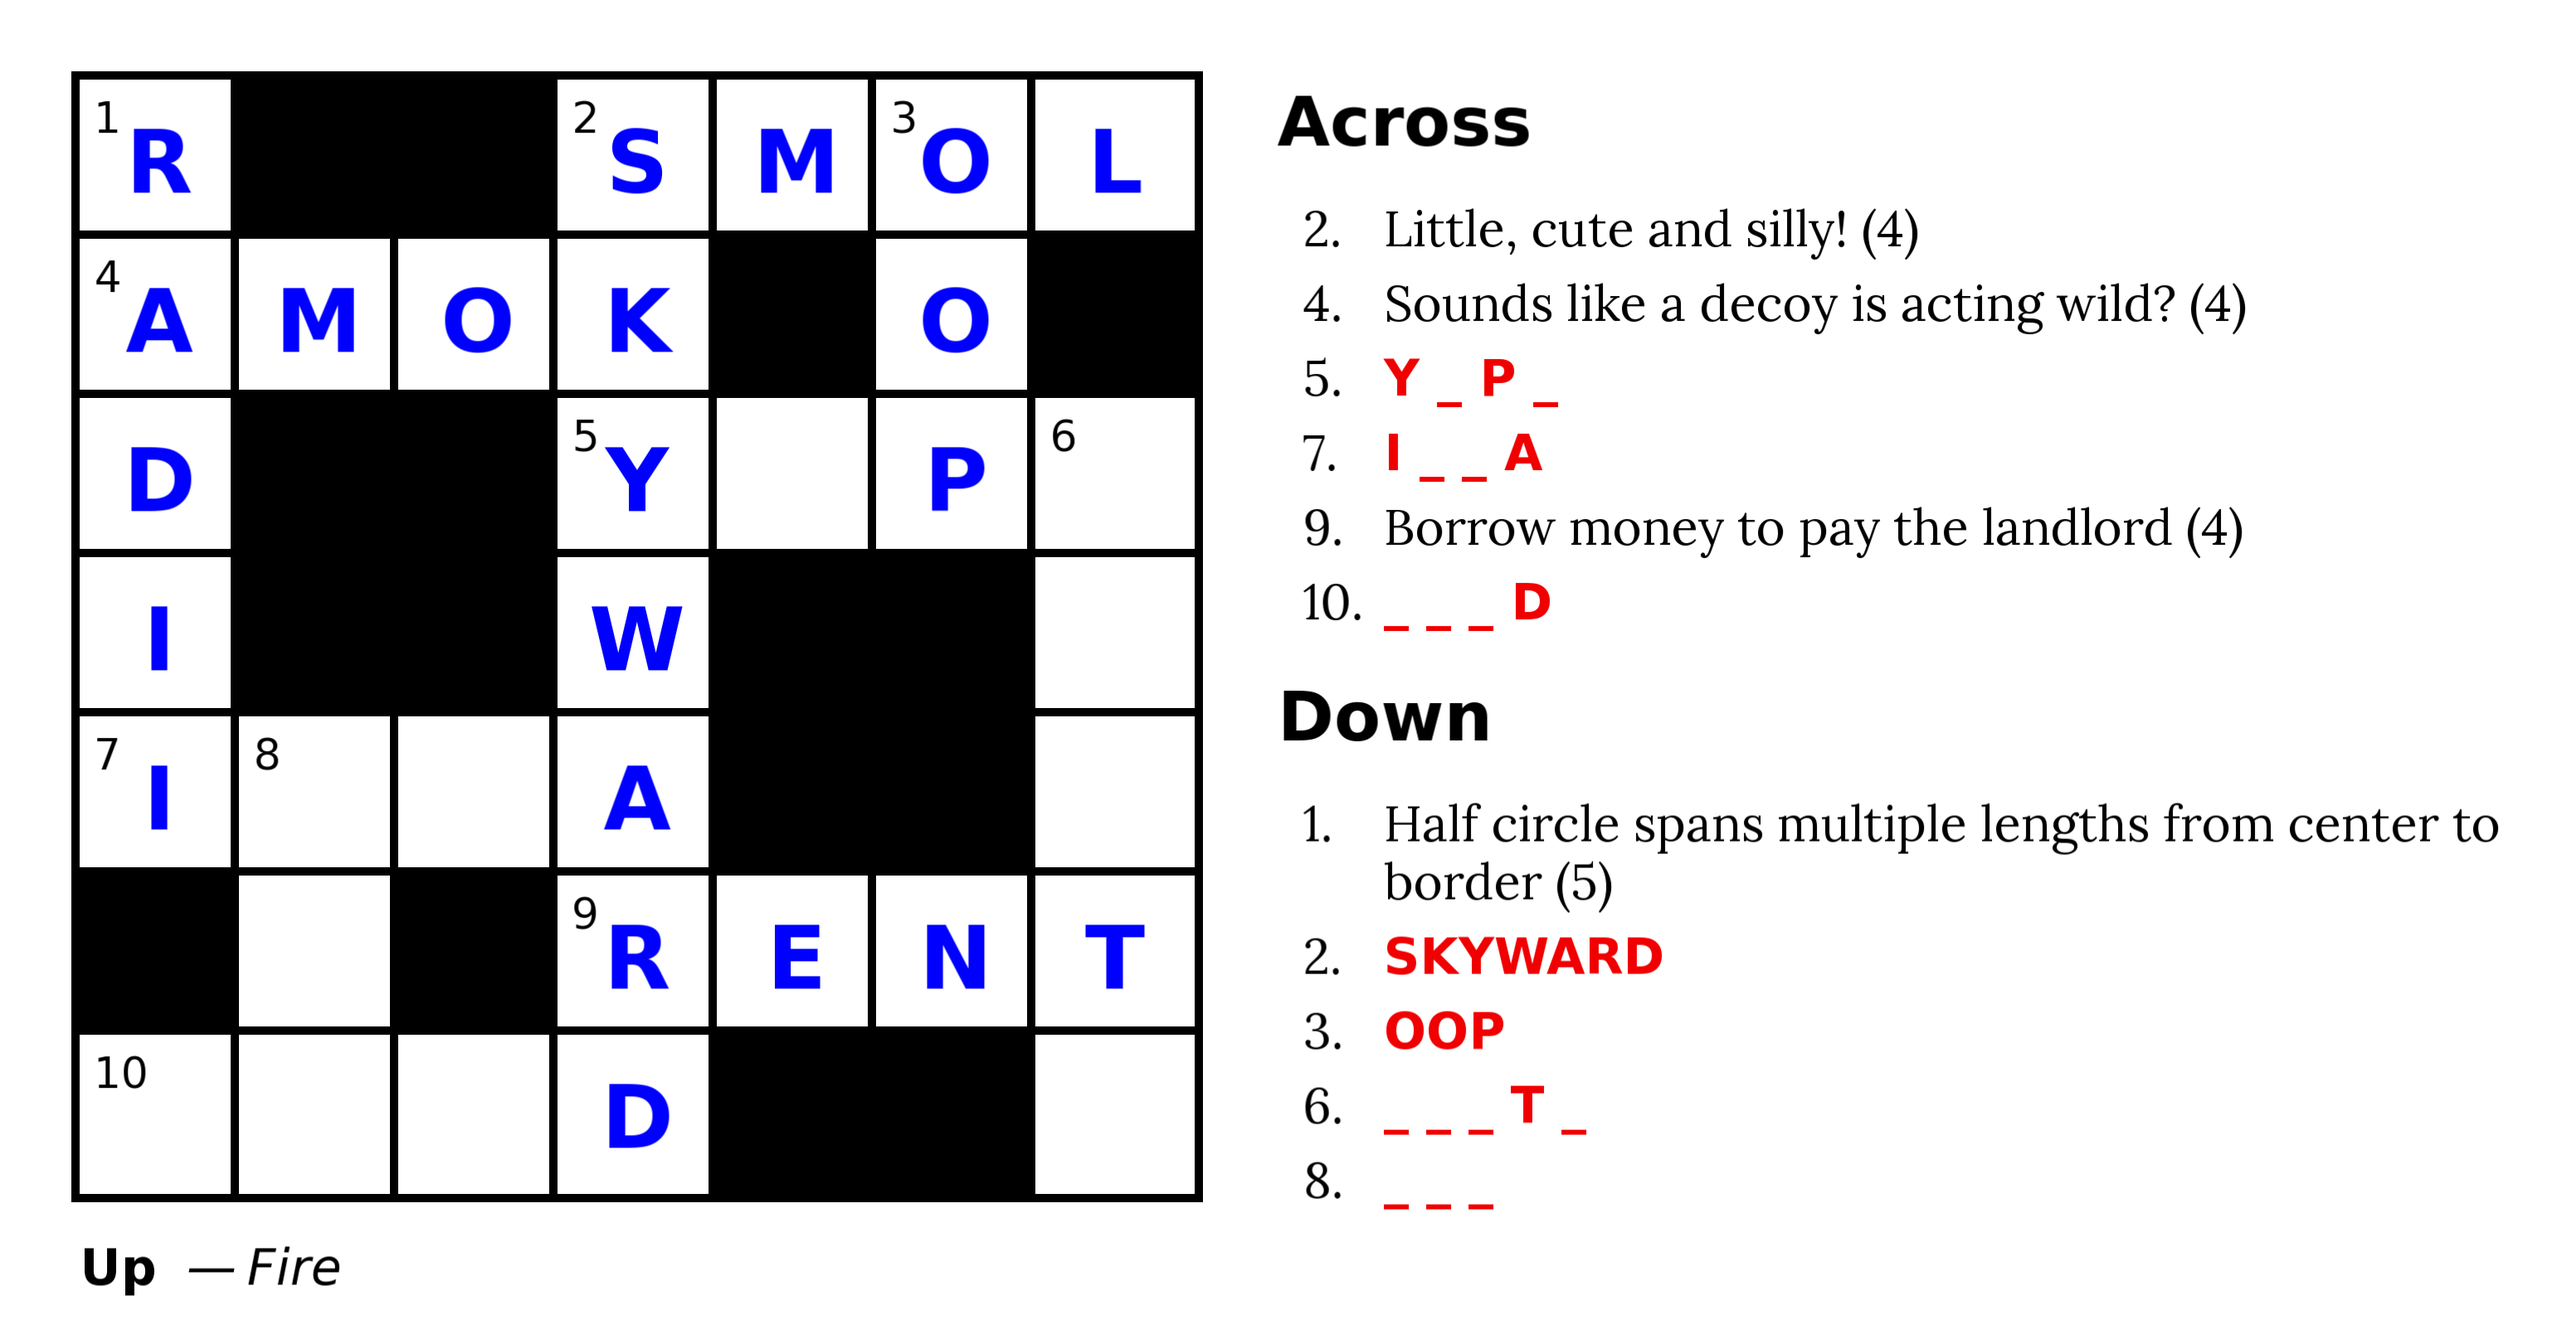
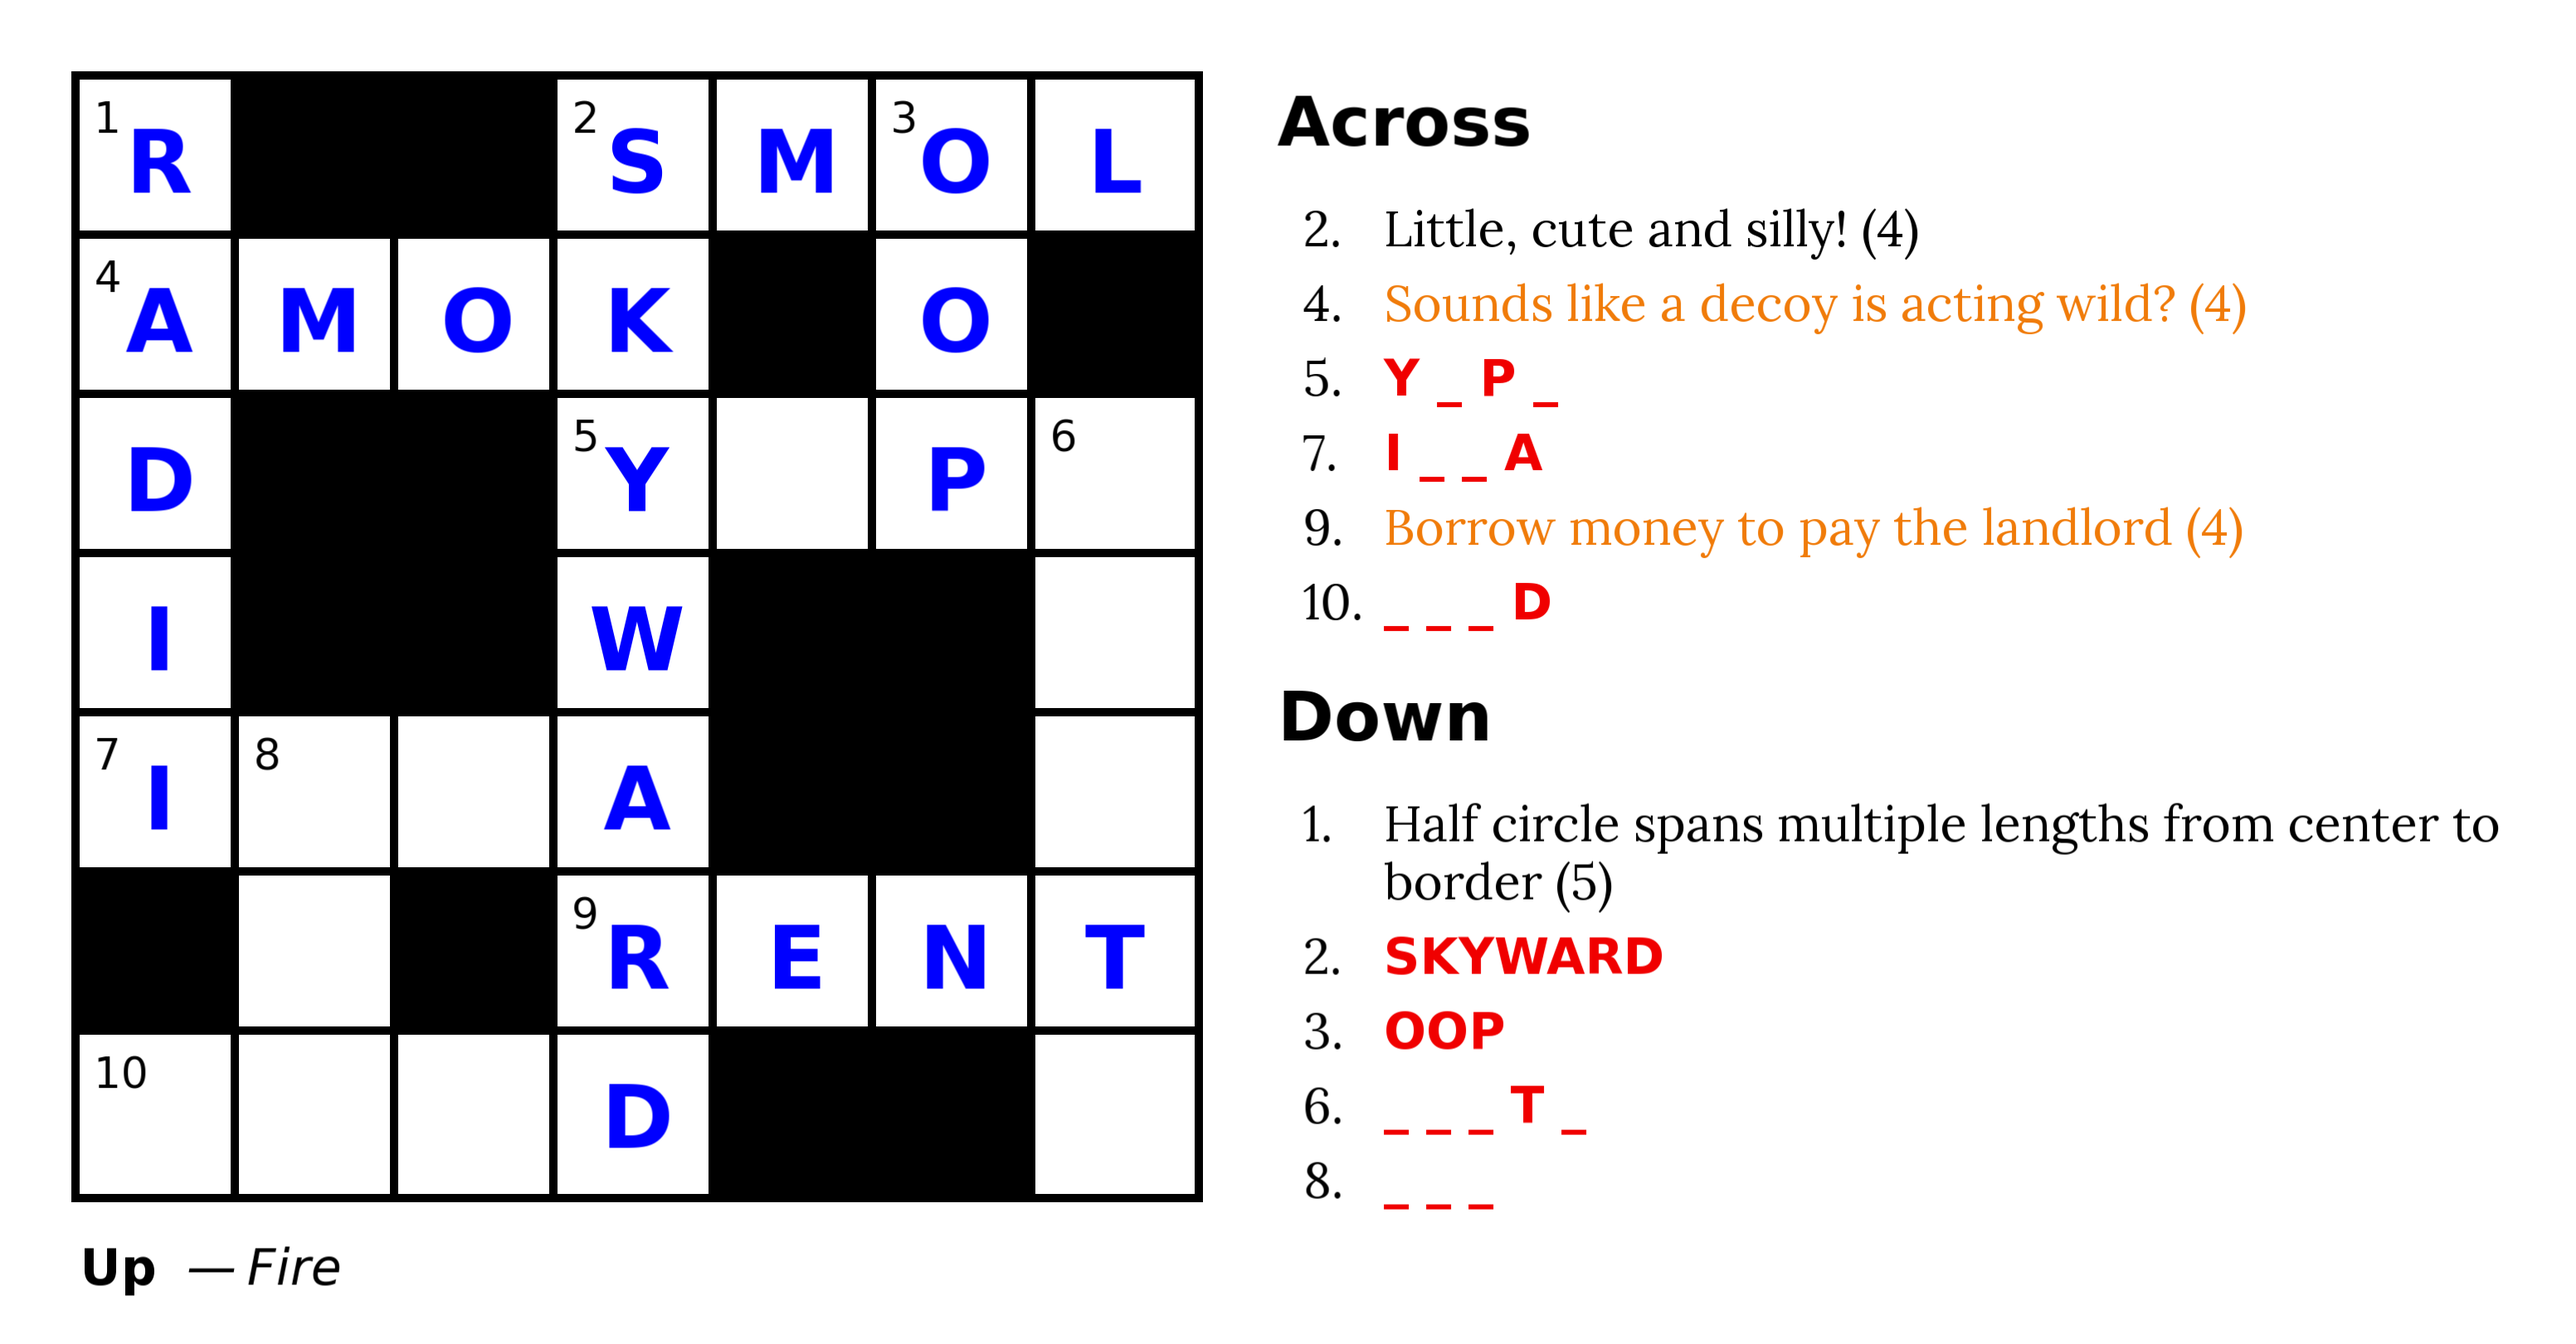
Added @Tentative feature.

Changed region(s): [[0.5311, 0.3701, 0.8747, 0.401], [0.5311, 0.2159, 0.8747, 0.2468]]

diff --git a/src/main.rs b/src/main.rs
@@ -15,6 +15,7 @@ struct Cell {
 #[derive(Clone)]
 struct Clue {
     lines: Vec<String>,
+    tentative: bool,
 }
 
 fn main() {
@@ -49,7 +50,7 @@ fn main() {
         }
 
         if let Some((left_raw, right)) = line.split_once(":") {
-            let left = left_raw.to_uppercase();
+            let mut left = left_raw.to_uppercase();
 
             match &*left {
                 "@TITLE"  => {title  = Some(right.trim().to_owned());}
@@ -57,6 +58,14 @@ fn main() {
                 "@CLUE-WIDTH"       => {max_clue_line_length_col_1 = Some(right.trim().parse().unwrap());}
                 "@CLUE-WIDTH-COL-2" => {max_clue_line_length_col_2 = Some(right.trim().parse().unwrap());}
                 _ => {
+
+                    let tentative = if left.trim().starts_with("@TENTATIVE") {
+                        left = left.split_once("@TENTATIVE").unwrap().1.trim().to_owned();
+                        true
+                    } else {
+                        false
+                    };
+
                     let answer_parts = left.split(|c: char| !c.is_alphabetic()).collect::<Vec<_>>();
 
                     // compute the length hint
@@ -85,6 +94,7 @@ fn main() {
                          .or_insert(vec![])
                          .push(Clue {
                              lines: (right.replace("'", "’").trim().to_owned() + "\u{a0}" + &lengths_bit).split("\\").map(str::trim).map(str::to_owned).collect(),
+                             tentative,
                          });
                 }
             }
@@ -288,9 +298,9 @@ fn main() {
             down_words[c-across_count].clone()
         };
 
-        let mut default = vec![Clue {lines: vec![word.replace(|c: char| !c.is_ascii_alphabetic(), " _ ").replace("  ", " ").trim().to_owned()]}];
+        let mut default = vec![Clue {lines: vec![word.replace(|c: char| !c.is_ascii_alphabetic(), " _ ").replace("  ", " ").trim().to_owned()], tentative: false}];
 
-        let (clue_vec, clue_color, clue_font) = if let Some(clue_vec) = clue_texts.get_mut(&word.to_uppercase()) {
+        let (clue_vec, mut clue_color, clue_font) = if let Some(clue_vec) = clue_texts.get_mut(&word.to_uppercase()) {
             (clue_vec, Color::BLACK, &lora)
         } else {
             (&mut default, Color::rgb(240, 0, 0), &dejavusans_bold)
@@ -301,6 +311,10 @@ fn main() {
         }
 
         let clue = clue_vec.remove(0);
+
+        if clue.tentative {
+            clue_color = Color::rgb(240, 123, 9);
+        }
 
         clue_text.set_position(Vector2f::new(x + clue_indent, y));
         clue_text.set_string(&format!("{number}."));

diff --git a/README.md b/README.md
@@ -56,6 +56,7 @@ Any line with `%%%` causes parsing to stop. You can put comments or whatever oth
 - Use `@Clue-With-Col-2: 6` to put the Down clues in a separate column and also specify the maximum width of that column.
 - In the grid, use `0` or any other non-letter character to indicate a white square that you haven't chosen a letter for yet. The tile will appear blank even in the answer key, and a placeholder clue will be created for words that cross through it. See `examples/up_incomplete.txt` for an example.
 - On any line, use `//` to create a comment, as in `ANSWER: Clue clue clue // comment`.
+- Preface a clue with `@Tentative` to mark it as tentative; it will show up in orange in the image render.
 
 ## Error handling
 
